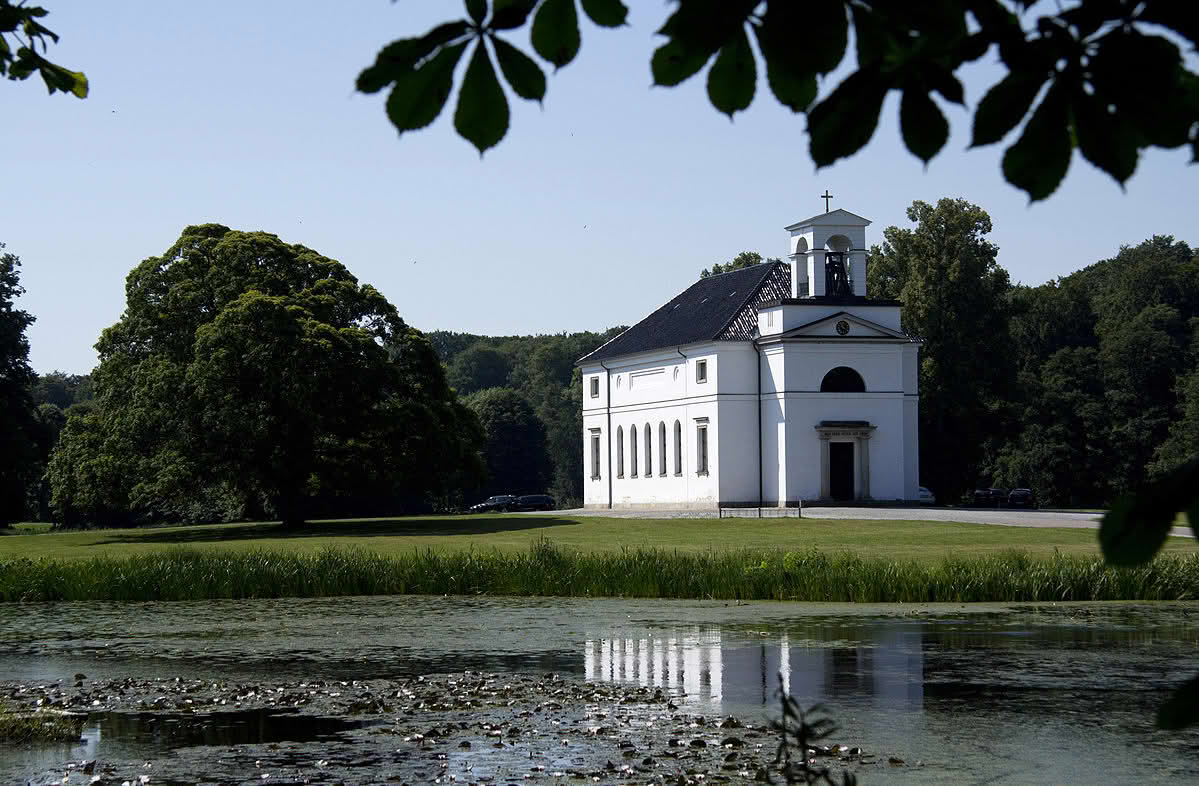
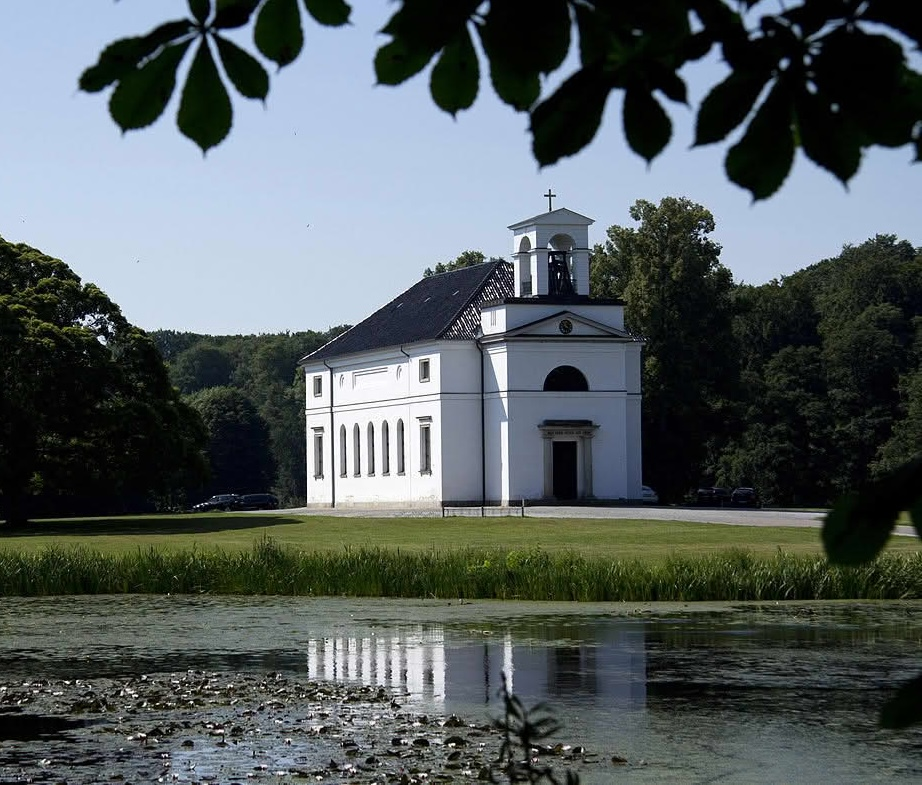
images

diff --git a/index.html b/index.html
@@ -51,11 +51,11 @@
 
     <section id="church" class="full-section flex flex-row-reverse bg-slate-50">
       <div class="section-image-container">
-        <img src="https://images.unsplash.com/photo-1470337458703-46ad1756a187?q=80&w=2000" alt="Reception"
-          class="slant-right grayscale hover:grayscale-0 transition-all duration-700">
+        <img src="assets/church2.jpg" alt="Reception"
+          class="slant-right transition-all duration-700">
       </div>
       <div class="w-1/2 section-content flex flex-col justify-center px-12 md:px-24 text-right items-end">
-        <div class="section-header mb-6">
+        <div class="section-header mb-10">
           <i data-lucide="church" size="60" stroke-width="1"></i>
           <h2 class="text-6xl">Kirke</h2>
         </div>
@@ -68,13 +68,13 @@
 
     <section id="reception" class="full-section flex flex-row">
       <div class="section-image-container">
-        <img src="https://images.unsplash.com/photo-1519741497674-611481863552?q=80&w=2000" alt="Reception"
-          class="slant-left grayscale hover:grayscale-0 transition-all duration-700">
+        <img src="assets/tagterrasse_1.jpg" alt="Reception"
+          class="slant-left transition-all duration-700">
       </div>
       <div class="w-1/2 section-content flex flex-col justify-center px-12 md:px-24">
-        <div class="section-header mb-6">
-          <i data-lucide="cake" size="60" stroke-width="1"></i>
+        <div class="section-header mb-10">
           <h2 class="text-6xl">Reception</h2>
+          <i data-lucide="cake" size="60" stroke-width="1"></i>
         </div>
         <p class="text-slate-500 leading-relaxed text-lg max-w-md">
           Vi byder på bobler og kage i den gamle herregårdshave umiddelbart efter vielsen.
@@ -84,13 +84,13 @@
 
     <section id="dinner" class="full-section flex flex-row">
       <div class="section-image-container">
-        <img src="https://images.unsplash.com/photo-1552332386-f8dd00dc2f85?q=80&w=2000" alt="Middag"
-          class="slant-left-inv grayscale hover:grayscale-0 transition-all duration-700">
+        <img src="assets/festsal.jpg" alt="Middag"
+          class="slant-left-inv transition-all duration-700">
       </div>
       <div class="w-1/2 section-content flex flex-col justify-center px-12 md:px-24">
-        <div class="section-header mb-6">
-          <i data-lucide="utensils" size="60" stroke-width="1"></i>
+        <div class="section-header mb-10">
           <h2 class="text-6xl font-cursive">Middag</h2>
+          <i data-lucide="utensils" size="60" stroke-width="1"></i>
         </div>
         <p class="text-slate-500 leading-relaxed text-lg max-w-md">
           En nøje sammensat tre-retters menu serveres i festsalen. Vi glæder os til en aften med god mad og kærlige
@@ -102,11 +102,11 @@
 
     <section id="party" class="full-section flex flex-row-reverse bg-slate-50">
       <div class="section-image-container">
-        <img src="https://images.unsplash.com/photo-1519671482749-fd09be7ccebf?q=80&w=2000" alt="Fest"
-          class="slant-right-inv grayscale hover:grayscale-0 transition-all duration-700">
+        <img src="assets/skodsborg_3.jpg" alt="Fest"
+          class="slant-right-inv transition-all duration-700">
       </div>
       <div class="w-1/2 section-content flex flex-col justify-center px-12 md:px-24 text-right items-end">
-        <div class="section-header mb-6">
+        <div class="section-header mb-10">
           <i data-lucide="music" size="60" stroke-width="1"></i>
           <h2 class="text-6xl font-cursive">Festen</h2>
         </div>
